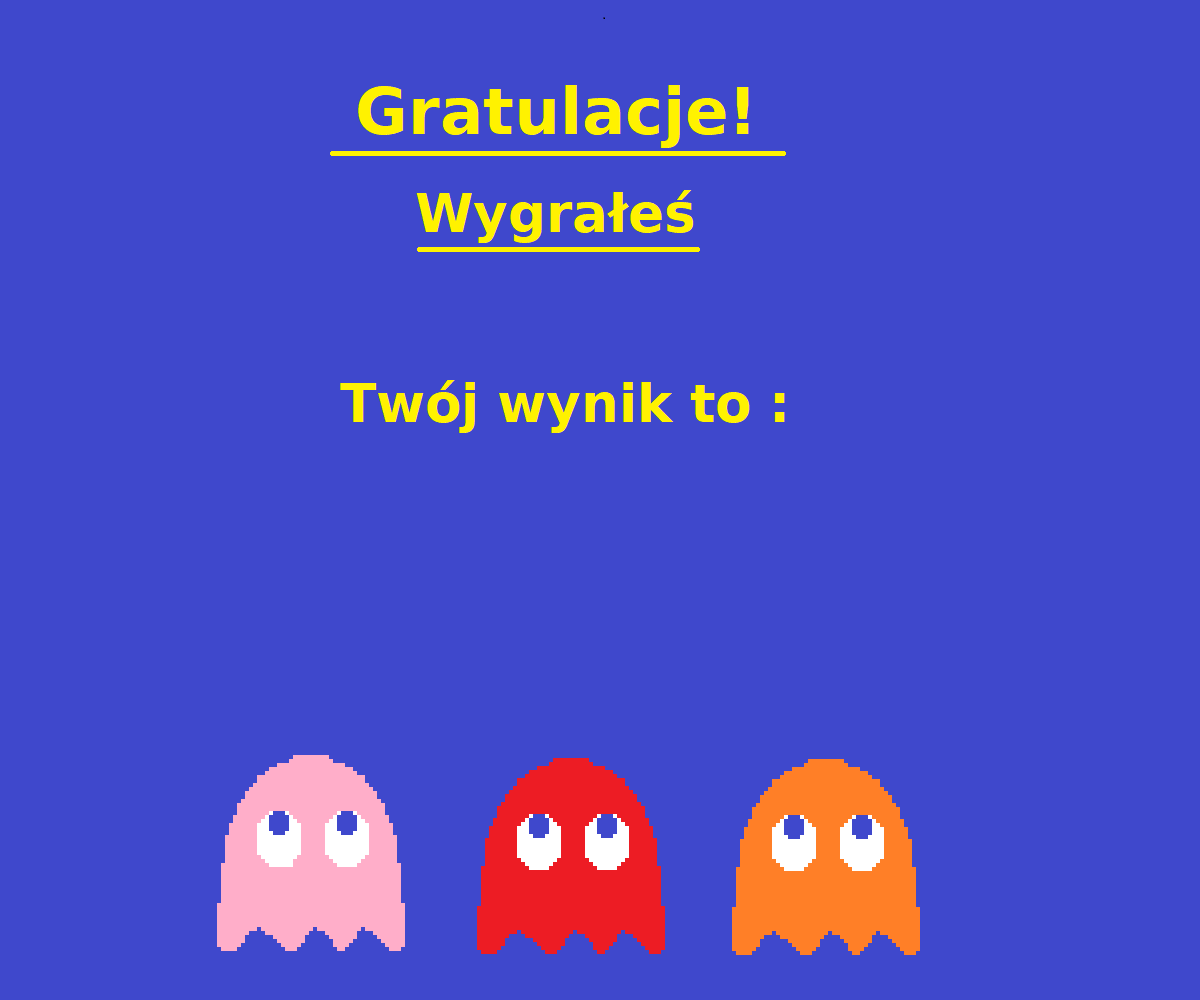
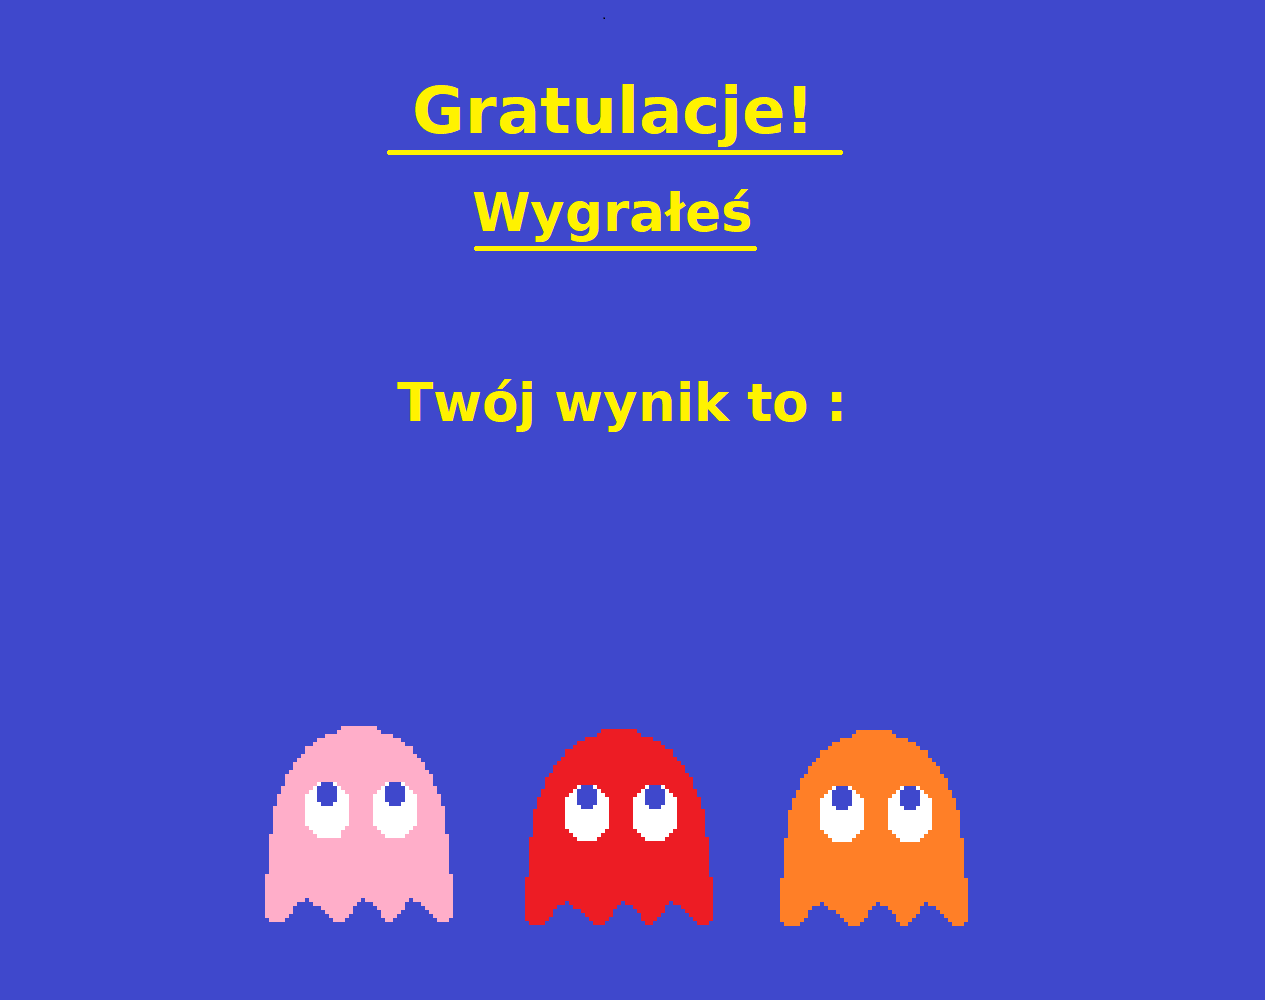
Version 0.82
- Fixed Clyde gif having transparent eyes
- Added final 5th level, level 6 ( previous 5)  still there as test level
- Clyde AI now used in final level
- Slightly extended width of screen to accommodate 15 pixel wider level 5
- Point above done also for all ui screens

diff --git a/src/Game.java b/src/Game.java
@@ -18,8 +18,8 @@ public class Game extends JFrame {
         private void initUI( int  lvl) {
                 add(new Board(lvl));
 
-                setTitle("Pacman ver 0.80");
-                setSize(1200, 1000);
+                setTitle("Pacman ver 0.82");
+                setSize(1265, 1000);
 
                 setLocationRelativeTo(null);
                 setResizable(false);
@@ -28,8 +28,7 @@ public class Game extends JFrame {
         }
             private void initMenu() {
                 createMenuBar();
-                System.out.println("fugg");
-                setTitle("Pacman ver 0.80");
+                setTitle("Pacman ver 0.82");
                 setSize(300, 550);
 
                 setLocationRelativeTo(null);

diff --git a/src/Board.java b/src/Board.java
@@ -178,7 +178,7 @@ public class Board extends JPanel implements ActionListener {
                 g2d.setPaint(Color.yellow);
                 g2d.setFont(new Font ("Arial", Font.BOLD, 80));
                 String tempScore = String.valueOf(getPoints());
-                g2d.drawString(tempScore, 525, 550);
+                g2d.drawString(tempScore, 550, 550);
             }else{
                 loadScoreScreen();
                 g2d.drawImage(scoreScreen, 0, 0, this);

diff --git a/src/Ghost.java b/src/Ghost.java
@@ -62,7 +62,9 @@ public class Ghost extends Pacman{
     public void changeImage( int direction) {
         ImageIcon oo = new ImageIcon("Blinkey\\BlinkeyLeftGif.gif");
         if(isFrigtened()) {
+
             oo = new ImageIcon("ScaredGif.gif");
+
         }else if(getTimer() < Board.TRANSPARENT_TIMER){
             switch (ghostType) {
                 case RED: {
